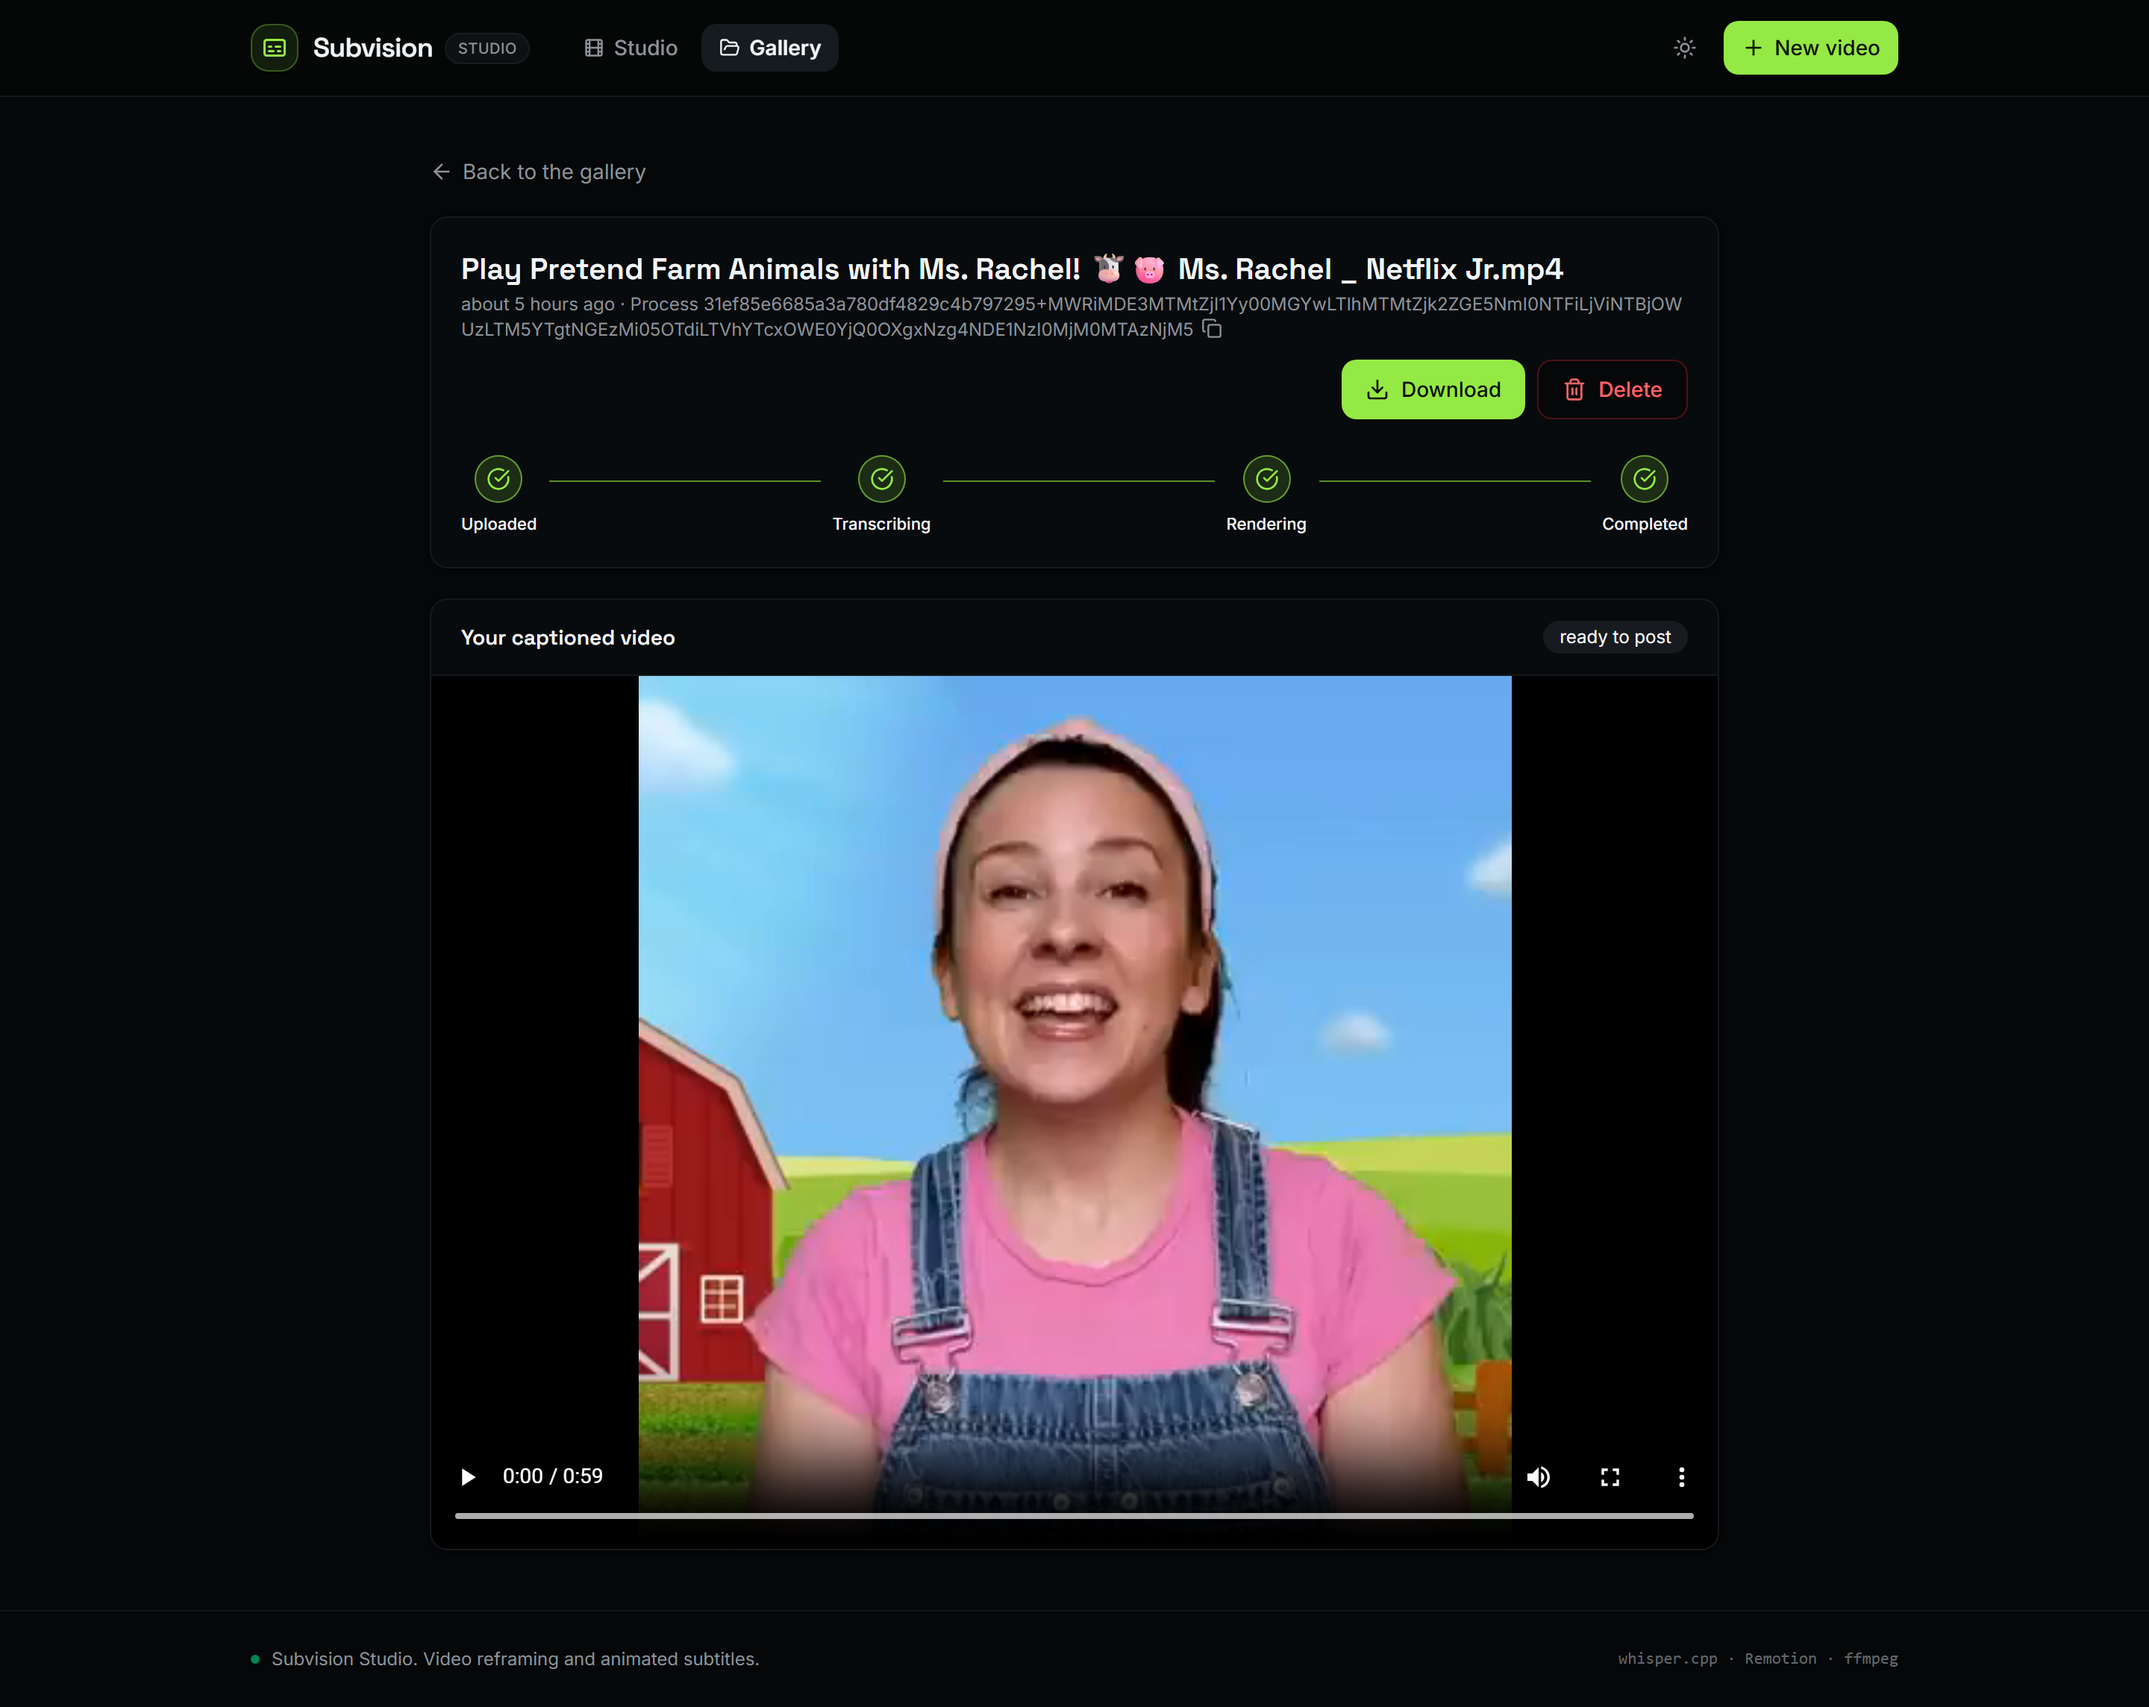
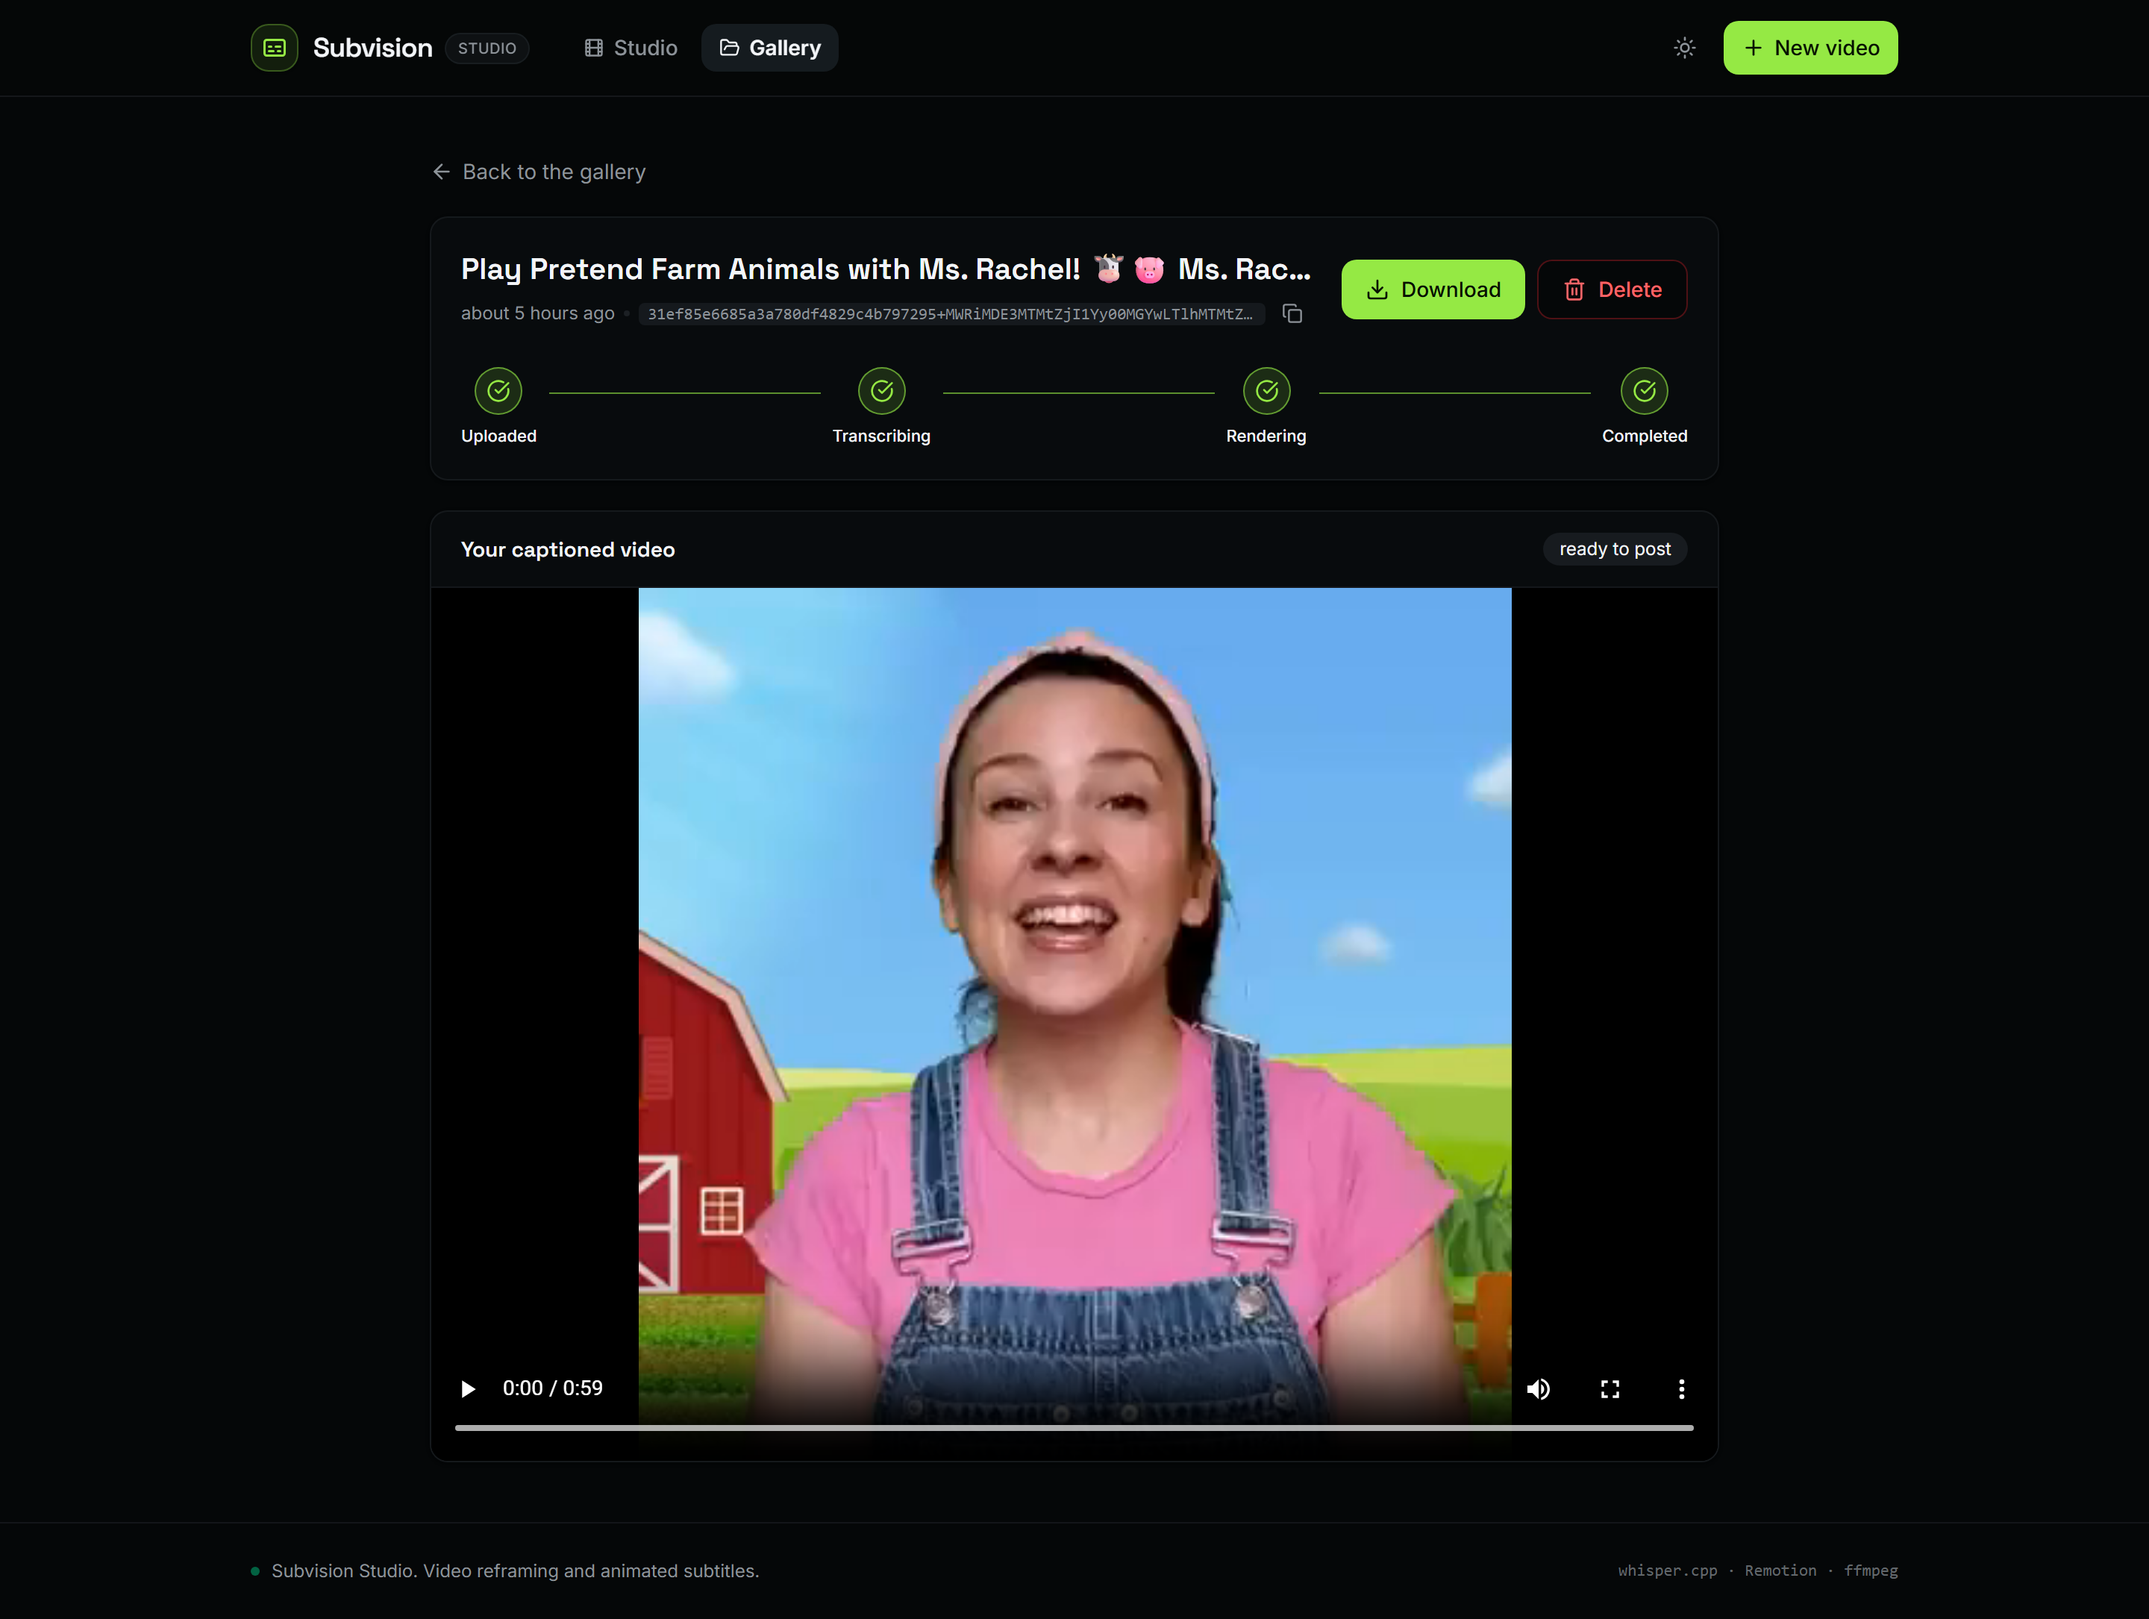
fix(client): prevent process id wrapping in detail header, refresh process detail screenshot
Replace break-all id span with truncated code pill and inline copy button.
Re-capture docs/assets/04-process-detail.png using Ms Rachel process.

diff --git a/client/components/process-details.tsx b/client/components/process-details.tsx
@@ -99,28 +99,36 @@ export function ProcessDetails({ processId }: { processId: string }) {
 
       <Card className="border-border/70 bg-card/50 p-5">
         <div className="flex flex-wrap items-center gap-3">
-          <div className="min-w-0">
+          <div className="min-w-0 flex-1">
             <h2 className="truncate font-display text-xl font-semibold">
               {process.filename || process.id}
             </h2>
-            <p className="mt-0.5 text-xs text-muted-foreground">
-              {formatDistanceToNow(new Date(process.createdAt), { addSuffix: true })} · Process{' '}
-              <span className="break-all">{process.id}</span>
-              <button
-                type="button"
-                aria-label="Copy process id"
-                className="ml-1 inline-flex h-4 w-4 items-center justify-center align-[-2px] rounded text-muted-foreground transition-colors hover:text-foreground"
-                onClick={() => {
-                  void handleCopyId();
-                }}
-              >
-                {copied ? (
-                  <Check className="h-3.5 w-3.5 text-emerald-400" />
-                ) : (
-                  <Copy className="h-3.5 w-3.5" />
-                )}
-              </button>
-            </p>
+            <div className="mt-1 flex flex-wrap items-center gap-1.5 text-xs text-muted-foreground">
+              <span>{formatDistanceToNow(new Date(process.createdAt), { addSuffix: true })}</span>
+              <span className="h-1 w-1 rounded-full bg-border" aria-hidden="true" />
+              <span className="inline-flex min-w-0 items-center gap-1.5">
+                <code
+                  title={process.id}
+                  className="max-w-[180px] truncate rounded bg-muted px-1.5 py-0.5 font-mono text-[11px] leading-none text-muted-foreground sm:max-w-[320px] md:max-w-[420px]"
+                >
+                  {process.id}
+                </code>
+                <button
+                  type="button"
+                  aria-label="Copy process id"
+                  className="inline-flex h-6 w-6 shrink-0 items-center justify-center rounded border border-transparent text-muted-foreground transition-colors hover:bg-accent hover:text-foreground"
+                  onClick={() => {
+                    void handleCopyId();
+                  }}
+                >
+                  {copied ? (
+                    <Check className="h-3.5 w-3.5 text-emerald-500" />
+                  ) : (
+                    <Copy className="h-3.5 w-3.5" />
+                  )}
+                </button>
+              </span>
+            </div>
           </div>
           <div className="ml-auto flex items-center gap-2">
             {done && (
